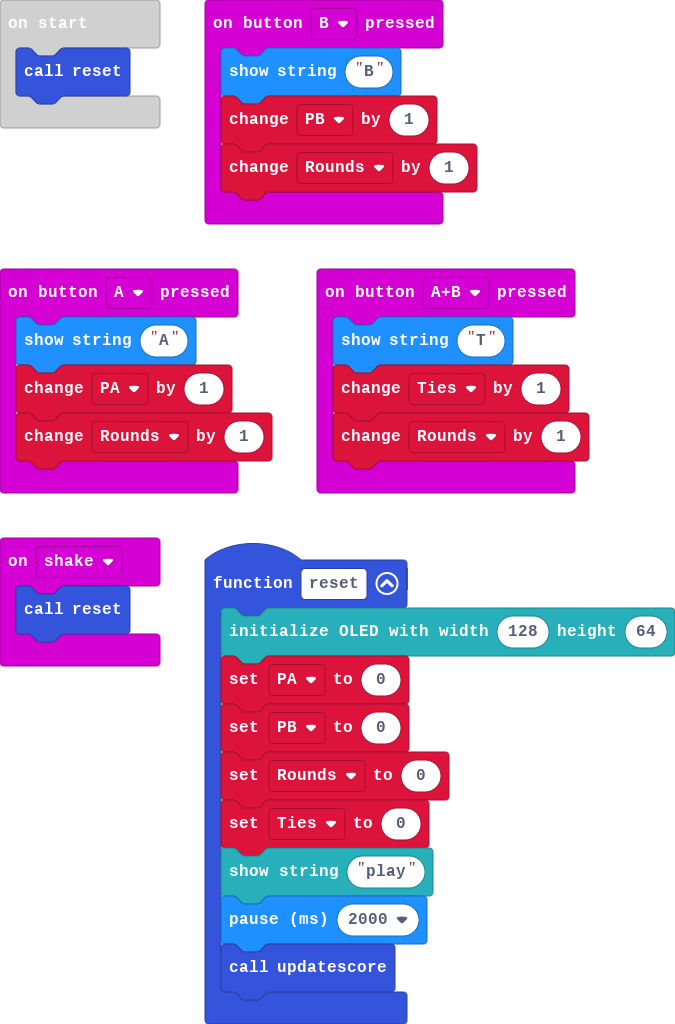
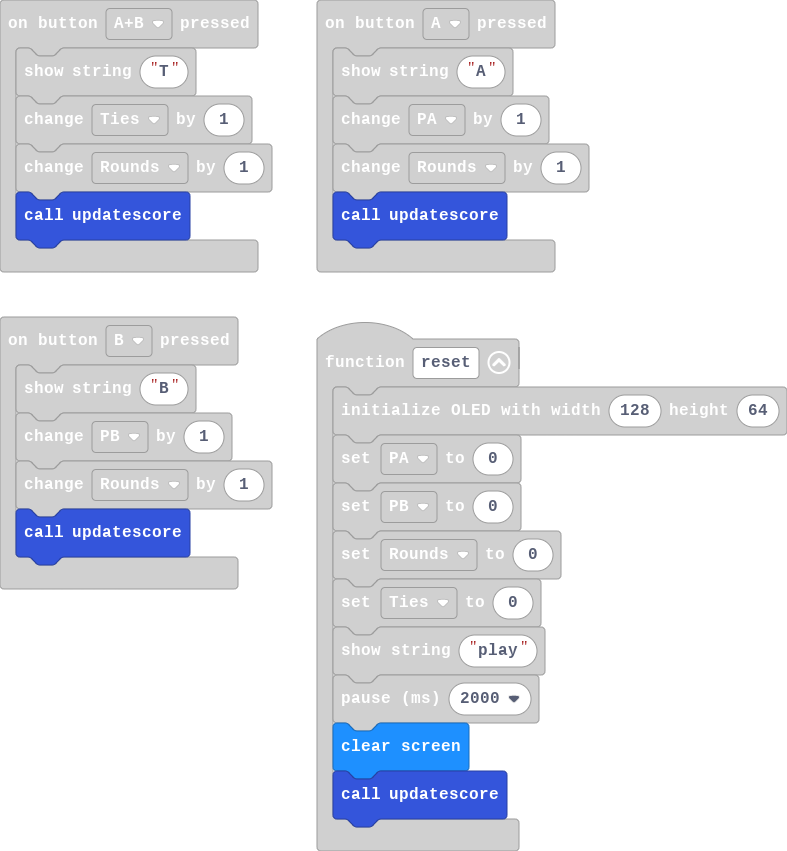
Update main.blocks, main.ts

diff --git a/main.ts b/main.ts
@@ -2,16 +2,19 @@ input.onButtonPressed(Button.A, function () {
     basic.showString("A")
     PA += 1
     Rounds += 1
+    updatescore()
 })
 input.onButtonPressed(Button.AB, function () {
     basic.showString("T")
     Ties += 1
     Rounds += 1
+    updatescore()
 })
 input.onButtonPressed(Button.B, function () {
     basic.showString("B")
     PB += 1
     Rounds += 1
+    updatescore()
 })
 input.onGesture(Gesture.Shake, function () {
     reset()
@@ -34,6 +37,7 @@ function reset () {
     Ties = 0
     OLED.writeStringNewLine("play")
     basic.pause(2000)
+    basic.clearScreen()
     updatescore()
 }
 let PB = 0
